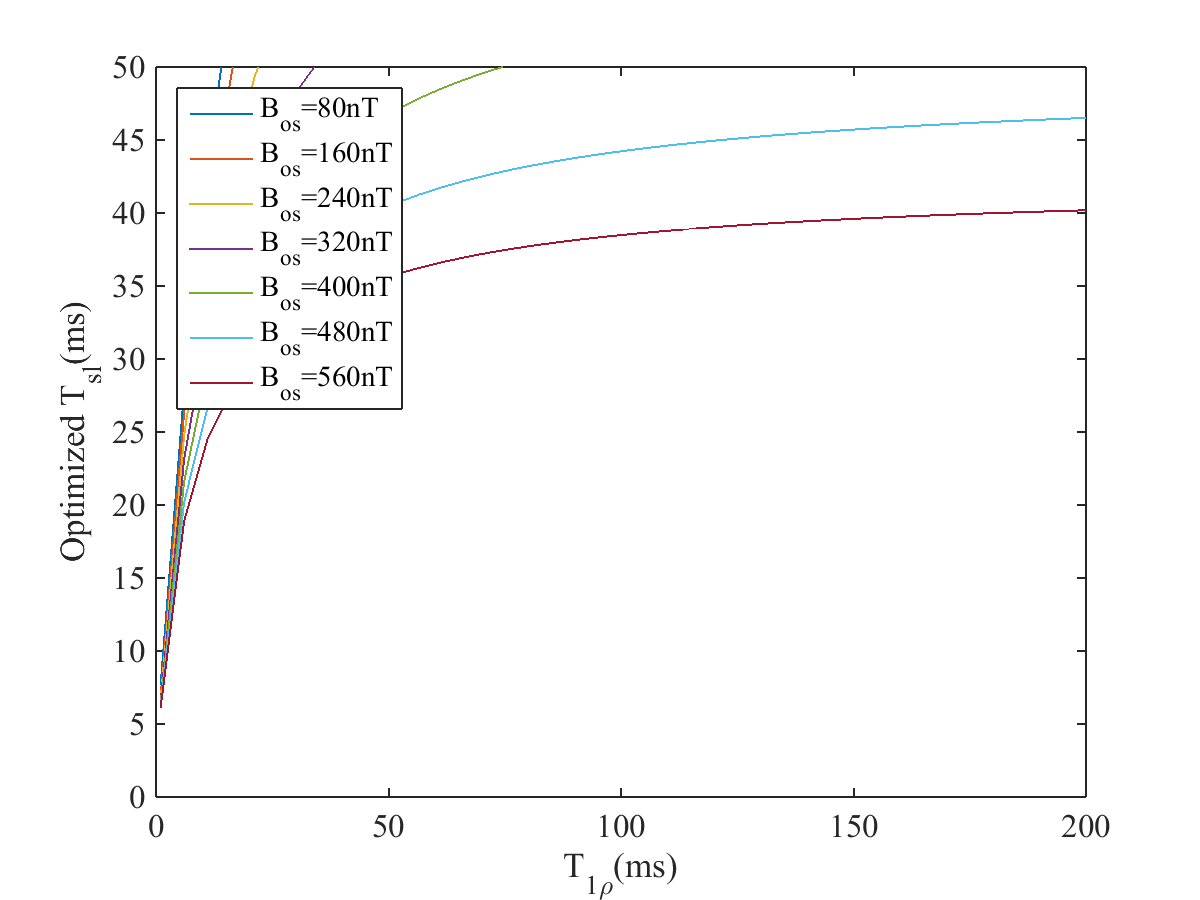
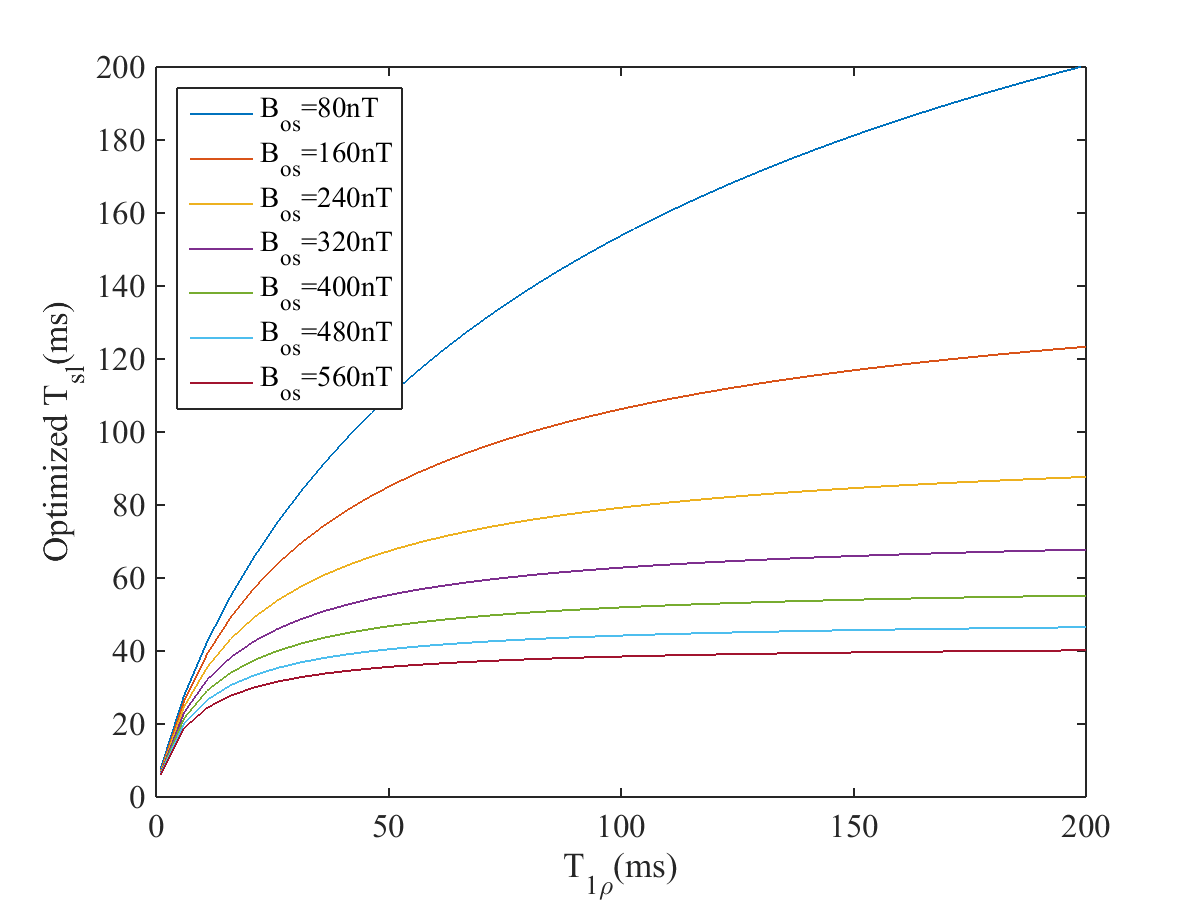
revise

diff --git a/bloch_sotsuron/T1r_satu.m b/bloch_sotsuron/T1r_satu.m
@@ -18,52 +18,46 @@ M_inf = 1;
 M_i = [0; 0; 1];
 
 %-------------------------------------------------------------------------------
-%parameter of bloch_second
+%parameter of Spin Lock
 %-------------------------------------------------------------------------------
-T1r = 150e-3;
-T2r = 70e-3;
+T1r = linspace(10e-3,360e-3,6);
+T2r = 100e-3;
 fsl = 100; %spin lock frequency   %Hz
 fos = 100; %brain frequency   %Hz
 omega_os = 2 * pi * fos;
 Bsl = (fsl * 2 * pi)/gamma;
 Bos = 80e-9;
-%tsl = 50e-3;
+tsl = linspace(0,1000e-3,1e2);
 
-tsl = linspace(0,500e-3,200); %variable %1/fsl=10msの周期にするべき
-scr = zeros( size(tsl) );
-scr_t1r = zeros( size(tsl) );
+%-------------------------------------------------------------------------------
+%parameter of Newton's methods
+%-------------------------------------------------------------------------------
+[M] = bloch_first( T1, T2, b_x0, b_y0, trf, M_inf, M_i );
+R2r = 1/T2r;
+b_os_x0 = Bos/2;
+b_os_z0 = 0;
+omega_sl = gamma * [b_os_x0; Bsl; b_os_z0];
 
 %-------------------------------------------------------------------------------
 %function
 %-------------------------------------------------------------------------------
-[M] = bloch_first( T1, T2, b_x0, b_y0, trf, M_inf, M_i );
-
-for i = 1:size(tsl,2)
-  %SIRS
-  [M_sl] = bloch_second( T1r, T2r, Bsl, Bos, omega_os, tsl(i), M );
-  [M_sl2on] = bloch_first( T1, T2, -b_x0, b_y0, trf, M_inf, M_sl );
-
-  %T1rho relaxation
-  M_t1r = [0;M(2)*exp(-tsl(i)/T1r);0];
-  [M_t1r2] = bloch_first( T1, T2, -b_x0, b_y0, trf, M_inf, M_t1r );
-
-  %signal change ratio
-  scr(i) = M_sl2on(3)/M_i(3);
-  scr_t1r(i) = M_t1r2(3)/M_i(3);
+f = zeros(size(T1r,2),size(tsl,2));
+for i = 1:size(T1r,2)
+  R1r = 1/T1r(i);
+  al = (R1r+R2r)/2;
+  be = sqrt( omega_sl(1)^2 + omega_sl(3)^2 - (R1r-R2r)^2/4 );
+  A = (-al+R2r)*M(2)-omega_sl(3)*M(1)+omega_sl(1)*M(3);
+  for j = 1:size(tsl,2)
+    f(i,j) = M(2)*exp(-tsl(j)/T1r(i))-exp(-al*tsl(j))*( M(2)*cos(be*tsl(j))+A/be*sin(be*tsl(j)) );
+  end
 end
 
 figure;
-plot(tsl*1e3,scr);
-hold on;
-plot(tsl*1e3,scr_t1r);
-plot(tsl*1e3,scr_t1r - scr);
-hold off;
-legend('SIRS','T_{1\rho} relaxation','T_{1\rho} relaxation - SIRS');
-xlabel('T_{sl}(ms)');
-ylabel('M_{on} / M_{ref}');
-xlim([0,500]);
-ylim([-0.1,1.1]);
+plot(tsl*1e3,f);
+legend('T_{1\rho}=10ms','T_{1\rho}=80ms','T_{1\rho}=150ms','T_{1\rho}=220ms','T_{1\rho}=290ms','T_{1\rho}=360ms');
+xlabel('T_{sl}[ms]');
+xlim([0,1000]);
 ax = gca;
 ax.FontName = 'Times New Roman';
 ax.FontSize = 16;
-saveas(gcf,'./Result/tsl_50ms','png');
+saveas(gcf,'./Result/T1r_satu','png');

diff --git a/bloch_sotsuron/Msl_tsl_T1r.m b/bloch_sotsuron/Msl_tsl_T1r.m
@@ -10,8 +10,8 @@ FA = deg2rad(90); %flip angle   %rad
 %-------------------------------------------------------------------------------
 %parameter of bloch_first
 %-------------------------------------------------------------------------------
-T1 = 100e-3;
-T2 = 80e-3;
+T1 = 47.8e-3;
+T2 = 54.5e-3;
 trf = 1e-3;  %given parameter
 b_x0 = FA/(gamma*trf);
 b_y0 = 0;
@@ -27,7 +27,7 @@ fsl = 100; %spin lock frequency   %Hz
 fos = 100; %brain frequency   %Hz
 omega_os = 2 * pi * fos;
 Bsl = (fsl * 2 * pi)/gamma;
-Bos = 80e-9;
+Bos = 500e-9;
 b_os_x0 = Bos/2;
 b_os_z0 = 0;
 omega_sl = gamma * [b_os_x0; Bsl; b_os_z0];
@@ -61,7 +61,7 @@ plot(T1r*1e3,tsl*1e3);
 xlabel('T_{1\rho}(ms)');
 ylabel('Optimized T_{sl}(ms)');
 xlim([0,200]);
-ylim([0,200]);
+ylim([0,70]);
 ax = gca;
 ax.FontName = 'Times New Roman';
 ax.FontSize = 16;

diff --git a/bloch_sotsuron/bloch_matrix_spinlock_fig.m b/bloch_sotsuron/bloch_matrix_spinlock_fig.m
@@ -9,8 +9,8 @@ FA = deg2rad(90); %flip angle   %rad
 %-------------------------------------------------------------------------------
 %parameter of bloch_first
 %-------------------------------------------------------------------------------
-T1 = 884e-3;
-T2 = 72e-3;
+T1 = 150e-3;
+T2 = 80e-3;
 trf = 1e-3;  %given parameter
 b_x0 = FA/(gamma*trf);
 b_y0 = 0;
@@ -27,7 +27,7 @@ fos = 100; %brain frequency   %Hz
 Bsl = (fsl * 2 * pi)/gamma;
 Bos = 80e-9;
 omega_os = fos * 2 * pi;
-tsl = 50e-3;
+tsl = 150e-3;
 
 %-------------------------------------------------------------------------------
 %function

diff --git a/bloch_sotsuron/Msl_tsl_opt.m b/bloch_sotsuron/Msl_tsl_opt.m
@@ -21,13 +21,13 @@ M_i = [0; 0; 1];
 %-------------------------------------------------------------------------------
 %parameter of Spin Lock
 %-------------------------------------------------------------------------------
-T1r = 60e-3;
-T2r = 100e-3;
+T1r = 150e-3;
+T2r = 70e-3;
 fsl = 100; %spin lock frequency   %Hz
 fos = 100; %brain frequency   %Hz
 omega_os = 2 * pi * fos;
 Bsl = (fsl * 2 * pi)/gamma;
-Bos =80e-9;
+Bos = 80e-9;
 
 %-------------------------------------------------------------------------------
 %parameter of Newton's methods

diff --git a/bloch_sotsuron/bloch_matrix_spinlock_Bos.m b/bloch_sotsuron/bloch_matrix_spinlock_Bos.m
@@ -36,12 +36,11 @@ scr = zeros( size(Bos) );
 %function
 %-------------------------------------------------------------------------------
 [M] = bloch_first( T1, T2, b_x0, b_y0, trf, M_inf, M_i );
-[M_sl2off] = bloch_first( T1, T2, -b_x0, b_y0, trf, M_inf, M );
 
 for i = 1:size(Bos,2)
   [M_sl] = bloch_second( T1rho, T2rho, Bsl, Bos(i), omega_os, tsl, M );
   [M_sl2] = bloch_first( T1, T2, -b_x0, b_y0, trf, M_inf, M_sl );
-  scr(i) = M_sl2(3)/M_sl2off(3);
+  scr(i) = M_sl2(3)/M_i(3);
 end
 
 figure;

diff --git a/bloch_sotsuron/bloch_matrix_spinlock_omegaos.m b/bloch_sotsuron/bloch_matrix_spinlock_omegaos.m
@@ -36,12 +36,11 @@ scr = zeros( size(fos) );
 %function
 %-------------------------------------------------------------------------------
 [M] = bloch_first( T1, T2, b_x0, b_y0, trf, M_inf, M_i );
-[M_sl2off] = bloch_first( T1, T2, -b_x0, b_y0, trf, M_inf, M );
 
 for i = 1:size(fos,2)
   [M_sl] = bloch_second( T1rho, T2rho, Bsl, Bos, omega_os(i), tsl, M );
   [M_sl2] = bloch_first( T1, T2, -b_x0, b_y0, trf, M_inf, M_sl );
-  scr(i) = M_sl2(3)/M_sl2off(3);
+  scr(i) = M_sl2(3)/M_i(3);
 end
 
 figure;

diff --git a/bloch_sotsuron/Msl_tsl_T1rBos.m b/bloch_sotsuron/Msl_tsl_T1rBos.m
@@ -64,7 +64,7 @@ legend('B_{os}=80nT','B_{os}=160nT','B_{os}=240nT','B_{os}=320nT','B_{os}=400nT'
 xlabel('T_{1\rho}(ms)');
 ylabel('Optimized T_{sl}(ms)');
 xlim([0,200]);
-ylim([0,50]);
+ylim([0,200]);
 ax = gca;
 ax.FontName = 'Times New Roman';
 ax.FontSize = 16;
